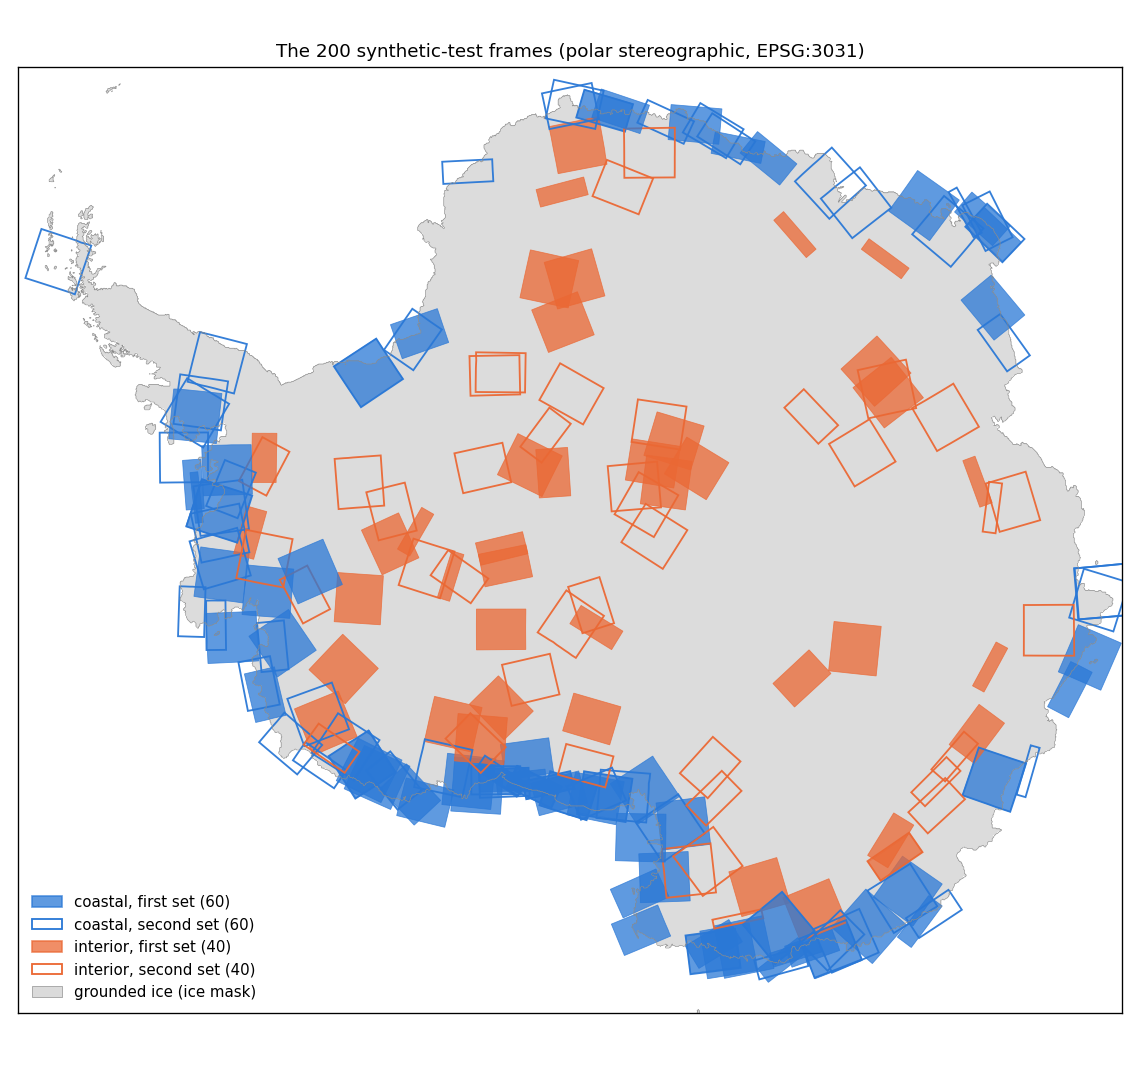
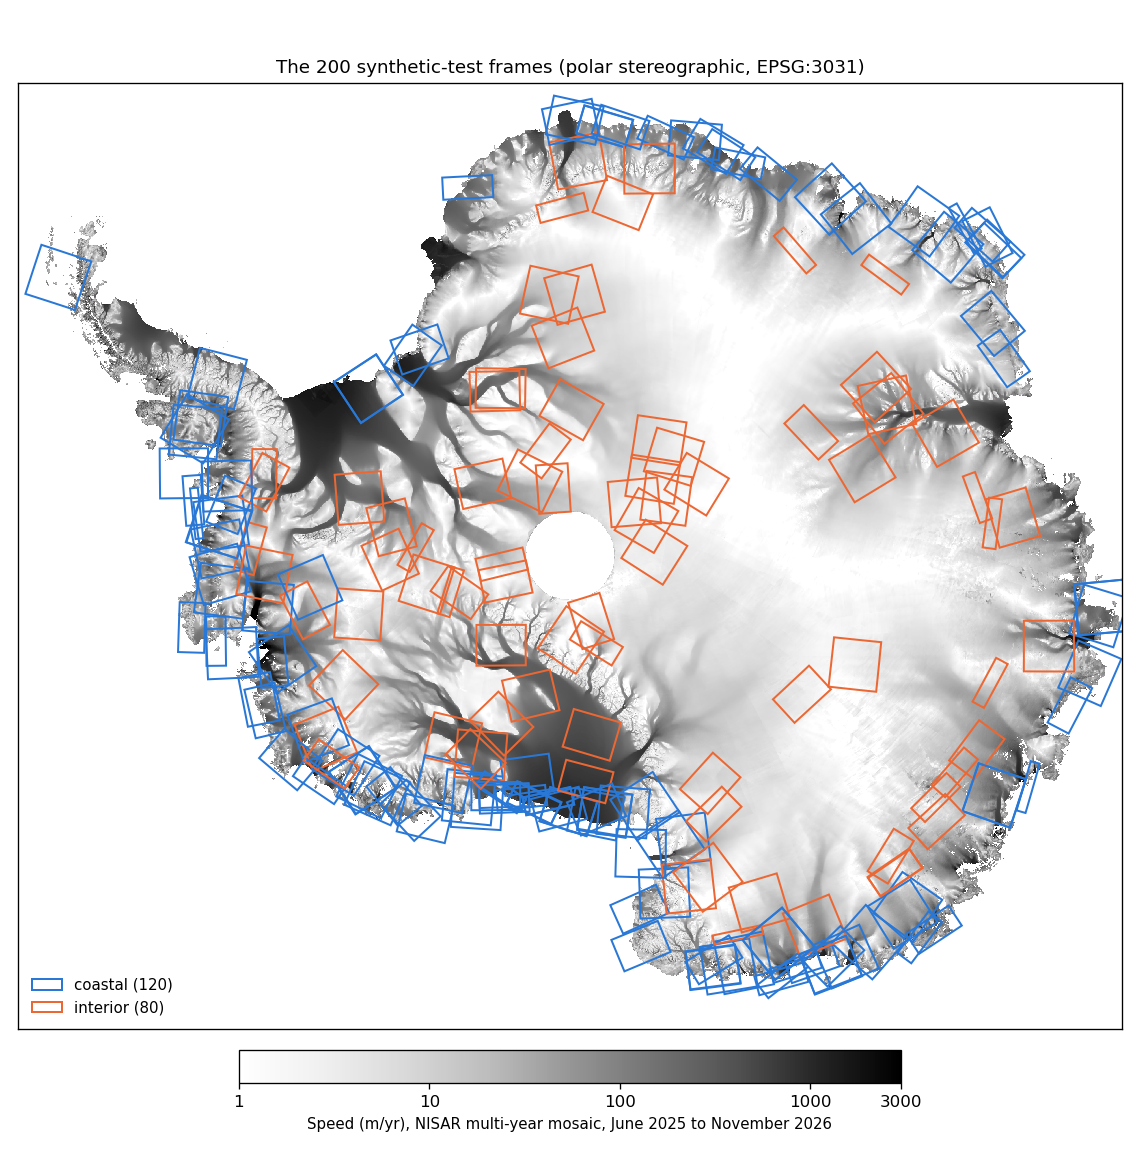
snaphuTilingMasking: snaphu versions in 2.2; 2.1 without the two sets; map over the NISAR speed mosaic
Claude-Session: https://claude.ai/code/session_01UG6jZhctxPfaFKqE7cozuF

diff --git a/Documents/snaphuTilingMasking.md b/Documents/snaphuTilingMasking.md
@@ -71,28 +71,25 @@ interferograms combine the phase predicted by the velocity map with noise matche
 ### 2.1 Data
 
 We use 200 Antarctica40 RUNW products: 40 MHz (`_4000_`), HH, unwrapped on the 13 x 16 look RUNW grid (Figure 1).
-They were drawn from the 17,594 products of the project, covering 1,803 frame locations, in two sets of 100, each
-with 60 **coastal** frames (footprint touching ocean, ice shelf or the grounding zone in our Antarctic ice mask)
-and 40 **interior** frames (fully grounded). Coastal frames are deliberately over-represented, since they hold
-the noise: they are 30% of the project's frame locations. Within each class, frames were taken in turn from
-different tracks, each time preferring the pass direction, 2-degree latitude band and month used least so far.
-The second set excludes the frames of the first and is restricted to the latest processing version (`P05023`).
-
-Ten coastal frames, six in the first set and four in the second, were dropped from the synthetic test because the
-velocity model covers less than half of their coherent pixels (Section 2.5). Each was replaced by another coastal
-frame chosen in the same way, so the synthetic test has 200 frames.
+They were drawn from the 17,594 products of the project, which cover 1,803 frame locations: 120 **coastal**
+frames (footprint touching ocean, ice shelf or the grounding zone in our Antarctic ice mask) and 80 **interior**
+frames (fully grounded). Coastal frames are deliberately over-represented, since they hold the noise: they are 30%
+of the project's frame locations. Within each class, frames were taken in turn from different tracks, each time
+preferring the pass direction, 2-degree latitude band and month used least so far. Ten coastal frames were
+replaced because the velocity model covers less than half of their coherent pixels (Section 2.5).
 
 Each product's own unwrapped phase, rewrapped, together with its coherence, forms the interferogram we unwrap. The
 RUNW's unwrapped phase and connected components serve as a reference solution.
 
 ![Figure 1](images/snaphuTiling_frameMap.png)
-*Figure 1. The 200 frames of the synthetic test, coastal (blue) and interior (orange), first set filled and second
-set outlined, over the grounded ice of our Antarctic ice mask (grey), in polar stereographic projection.*
+*Figure 1. The 200 frames, coastal (blue) and interior (orange), over ice speed from the latest NISAR Antarctic
+velocity mosaic (multi-year, June 2025 to November 2026), in polar stereographic projection.*
 
 ### 2.2 Unwrapping
 
-All runs use snaphu 2.0.7 with the statistical cost mode `SMOOTH`, an MCF initialization, `NCORRLOOKS 139`, and the
-RUNW's 13 x 16 looks. The two modes compared are:
+Untiled runs use snaphu 2.0.7, and tiled runs a slightly modified version of it (below). Both use the statistical
+cost mode `SMOOTH`, an MCF initialization, `NCORRLOOKS 139` and the RUNW's 13 x 16 looks. The two modes compared
+are:
 
 - **untiled**: the unmodified snaphu release, as used for production unwrapping;
 - **tiled with `-S`**: a slightly modified build of snaphu 2.0.7 (below), 4 x 4 tiles with 200-pixel overlaps, 16
